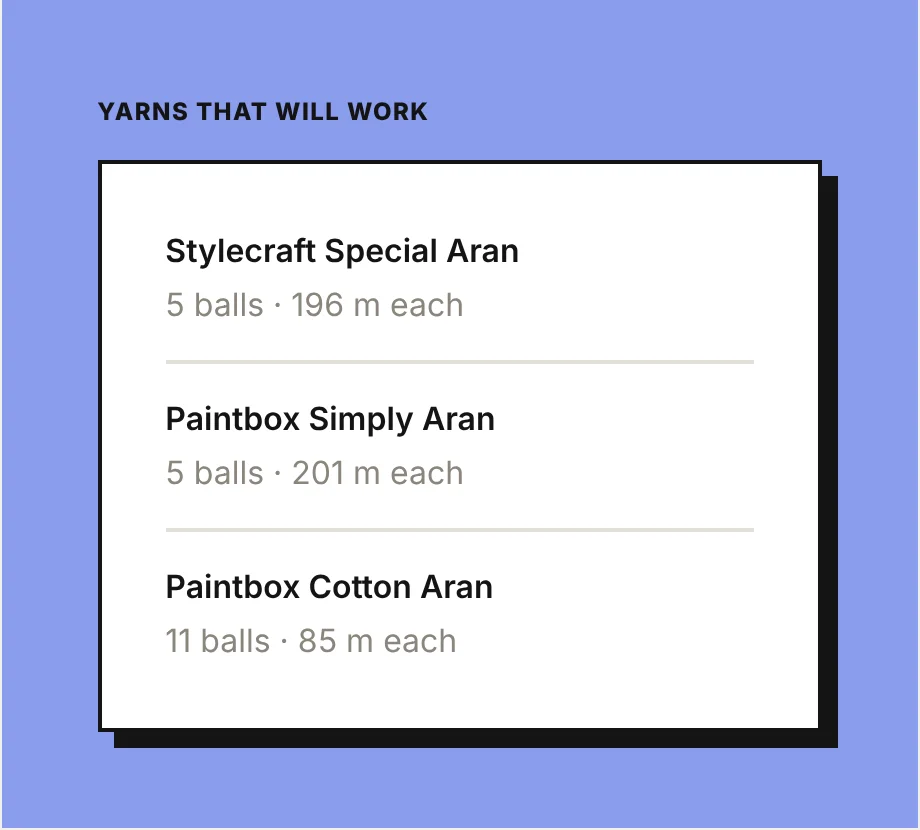
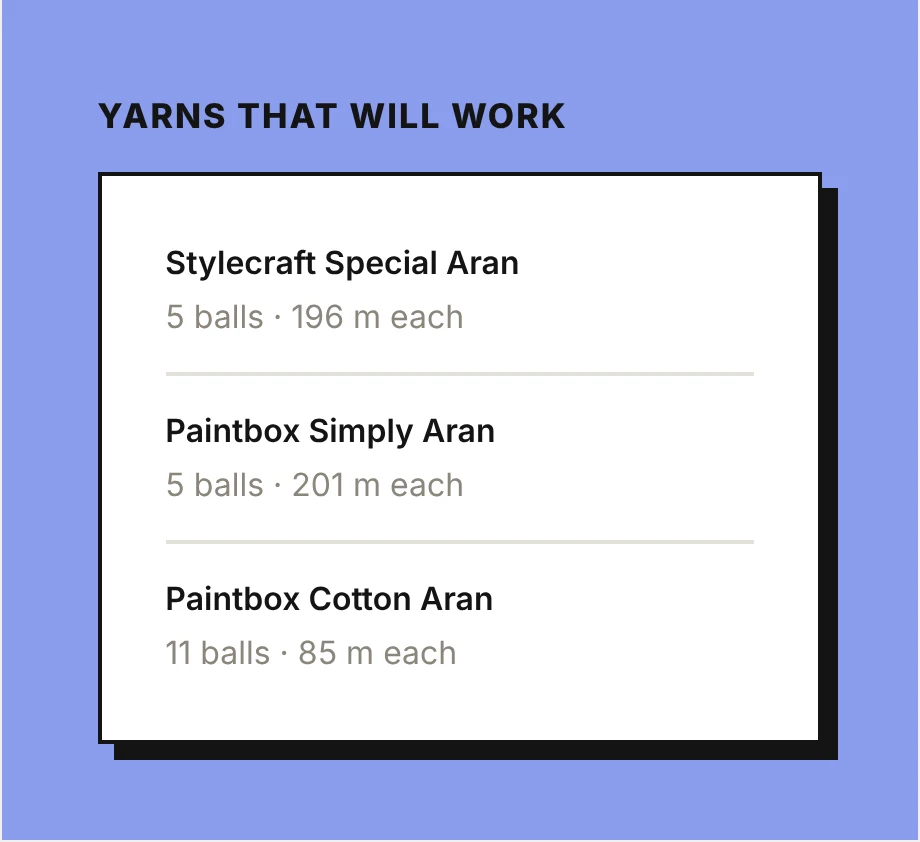
Rounded chunky buttons; one-line grid summaries; Knot cards recaptured with bigger titles; diagrams image without the small text
Claude-Session: https://claude.ai/code/session_01AEbKMrsaeiiooea7bnJphi

diff --git a/src/content/caseStudies.tsx b/src/content/caseStudies.tsx
@@ -48,7 +48,7 @@ export type CaseStudy = {
   tldr?: { points: { label: string; body: React.ReactNode }[]; stats?: { value: string; label: string }[] };
 };
 
-const knotSizes: Record<string, [number, number]> = {"tap-a-row": [918, 922], "the-key": [918, 914], "plain-words": [1600, 636], "diagrams": [1600, 697], "your-place": [918, 646], "your-size": [1392, 694], "your-hook": [918, 798], "yarns": [920, 830]};
+const knotSizes: Record<string, [number, number]> = {"tap-a-row": [918, 922], "the-key": [918, 914], "plain-words": [1600, 636], "diagrams": [1600, 697], "your-place": [918, 703], "your-size": [1392, 707], "your-hook": [918, 811], "yarns": [920, 842]};
 /* A Knot a Problem image, with its size so pairs can be laid out at equal heights */
 const knotBg: Record<string, string> = {"diagrams": "#a6d4a7", "plain-words": "#f1d16c", "tap-a-row": "#f1d16c", "the-key": "#f1d16c", "yarns": "#899cee", "your-hook": "#8a9ded", "your-place": "#a6d4a7", "your-size": "#8a9ded"};
 const k = (name: string, alt: string): Img => ({ src: `/work/knot/${name}.webp`, alt, w: knotSizes[name][0], h: knotSizes[name][1], bg: knotBg[name] });

diff --git a/src/components/Work.tsx b/src/components/Work.tsx
@@ -209,7 +209,7 @@ function ProjectTile({ p, onOpen }: { p: Project; onOpen: () => void }) {
         >
           {p.title}
         </span>
-        <span className={`${p.wordmark ? 'mt-1' : 'mt-3'} block text-[16px] leading-snug max-w-[36ch] ${soft}`}>{p.summary}</span>
+        <span className={`${p.wordmark ? 'mt-1' : 'mt-3'} block text-[16px] leading-snug ${p.logoRight ? "max-w-[36ch]" : "max-w-[52ch]"} ${soft}`}>{p.summary}</span>
       </a>
       ) : (
         <button
@@ -230,7 +230,7 @@ function ProjectTile({ p, onOpen }: { p: Project; onOpen: () => void }) {
         >
           {p.title}
         </span>
-        <span className={`${p.wordmark ? 'mt-1' : 'mt-3'} block text-[16px] leading-snug max-w-[36ch] ${soft}`}>{p.summary}</span>
+        <span className={`${p.wordmark ? 'mt-1' : 'mt-3'} block text-[16px] leading-snug ${p.logoRight ? "max-w-[36ch]" : "max-w-[52ch]"} ${soft}`}>{p.summary}</span>
       </button>
       )}
 

diff --git a/src/index.css b/src/index.css
@@ -56,8 +56,9 @@
   background: #fff;
   color: var(--ink);
   border: 2px solid var(--ink);
-  box-shadow: 4px 4px 0 var(--ink);
-  padding: 0.7rem 1.15rem;
+  border-radius: 999px;
+  box-shadow: 3px 3px 0 var(--ink);
+  padding: 0.7rem 1.3rem;
   font-size: 14px;
   font-weight: 700;
   text-transform: uppercase;
@@ -67,7 +68,7 @@
 }
 .chunky:hover {
   transform: translate(-1px, -1px);
-  box-shadow: 5px 5px 0 var(--ink);
+  box-shadow: 4px 4px 0 var(--ink);
 }
 .chunky:active {
   transform: translate(3px, 3px);
@@ -102,7 +103,8 @@
   background: #fff;
   color: var(--ink);
   border: 2px solid var(--ink);
-  box-shadow: 3px 3px 0 var(--ink);
+  border-radius: 999px;
+  box-shadow: 2px 2px 0 var(--ink);
   transition: transform 120ms ease, box-shadow 120ms ease;
 }
 .group:hover .chunky-icon,

diff --git a/src/pages/CaseStudyV2.tsx b/src/pages/CaseStudyV2.tsx
@@ -172,7 +172,7 @@ function Toggle({ tldr, setTldr }: { tldr: boolean; setTldr: (v: boolean) => voi
       on ? 'bg-[var(--ink)] text-[var(--paper)]' : 'bg-white text-[var(--ink)] hover:bg-[var(--ink)]/5'
     }`;
   return (
-    <div role="group" aria-label="How much to read" className="inline-flex border-[2px] border-[var(--ink)] shadow-[3px_3px_0_var(--ink)]">
+    <div role="group" aria-label="How much to read" className="inline-flex overflow-hidden rounded-full border-[2px] border-[var(--ink)] shadow-[3px_3px_0_var(--ink)]">
       <button type="button" aria-pressed={!tldr} onClick={() => setTldr(false)} className={btn(!tldr)}>
         Full story
       </button>
